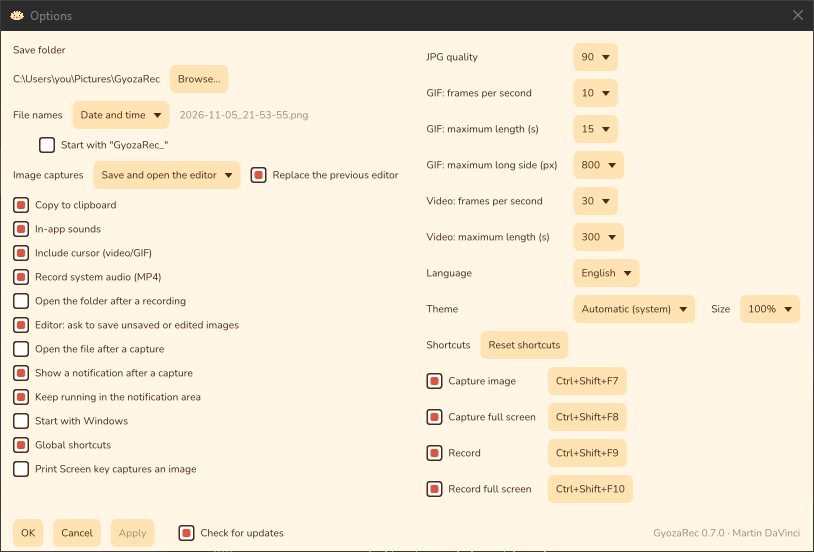
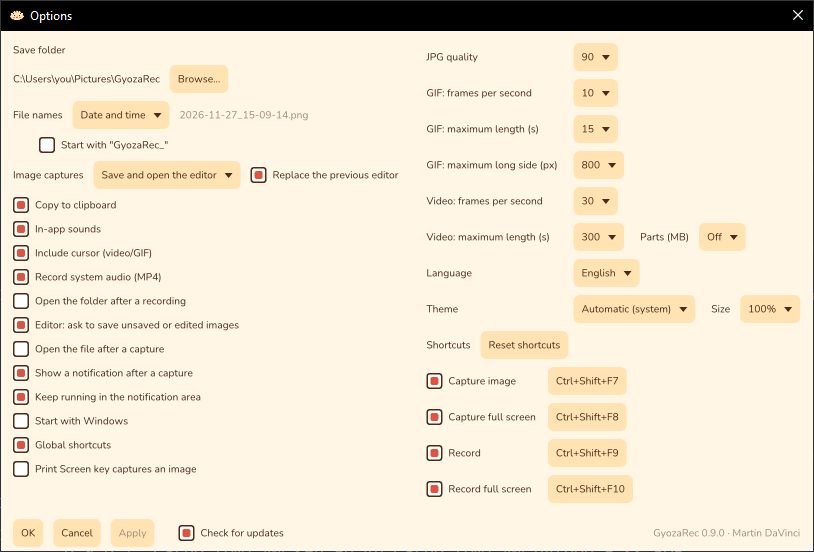
docs: 0.9.0 changelog and version
Parts by size and Open folder are new features; the Options screenshot shows the new Parts (MB) dropdown.

Changed region(s): [[0.0, 0.0, 1.0, 0.0616], [0.7985, 0.4004, 0.9214, 0.462], [0.2764, 0.1848, 0.3686, 0.2156]]

diff --git a/CHANGELOG.md b/CHANGELOG.md
@@ -2,7 +2,7 @@
 
 All notable changes to GyozaRec are listed here. The format follows [Keep a Changelog](https://keepachangelog.com/en/1.1.0/), and versions follow [Semantic Versioning](https://semver.org/).
 
-## [Unreleased]
+## [0.9.0] - 2026-11-27
 
 ### Added
 - **Parts (MB)** in Options, next to the maximum length of videos (off by default): an MP4 recording continues in a new file before it reaches the chosen size (10, 20, 25, 50, 100 or 500 MB, where 1 MB is 1,048,576 bytes, as Windows Explorer counts them), so a long recording ends up as files under a size limit. The parts are named `name.mp4`, `name_part2.mp4`, `name_part3.mp4`…; each starts at zero and plays on its own, and the next one continues where it stopped, with no frame or sound lost between them. Copy to clipboard copies every part, and discarding a recording deletes them all.
@@ -146,6 +146,7 @@ All notable changes to GyozaRec are listed here. The format follows [Keep a Chan
 - Interface in nine languages, detected from Windows.
 - Per-user MSI installer and portable zip.
 
+[0.9.0]: https://github.com/martindavinci/GyozaRec/compare/v0.8.0...v0.9.0
 [0.8.0]: https://github.com/martindavinci/GyozaRec/compare/v0.7.0...v0.8.0
 [0.7.0]: https://github.com/martindavinci/GyozaRec/compare/v0.6.0...v0.7.0
 [0.6.0]: https://github.com/martindavinci/GyozaRec/compare/v0.5.0...v0.6.0
